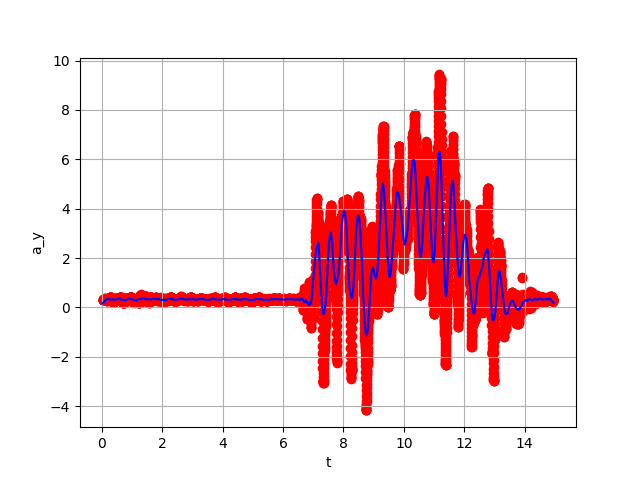
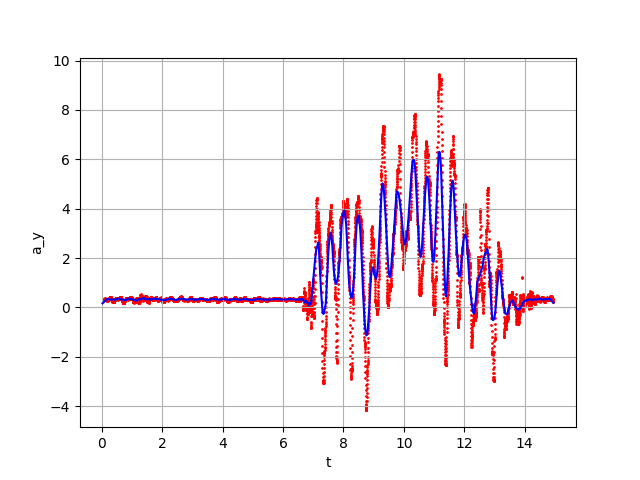
Implemented Brickwall LPF

Changed region(s): [[0.1562, 0.1562, 0.875, 0.875]]

diff --git a/Odometry_Bad_Tries/Bad_Filter_attempts.py b/Odometry_Bad_Tries/Bad_Filter_attempts.py
@@ -1,12 +1,22 @@
 import numpy as np  
 import pandas as pd 
 import matplotlib.pyplot as plt
+#import scipy.interpolate as sp
 
 
 def simple_moving_average(signal, window_size):
     kernel = np.ones(window_size) / window_size
     smoothed_signal = np.convolve(signal, kernel, mode = 'same')
     return smoothed_signal
+
+def Brickwall_LPF(signal, cutoff_freq, fs, num_taps):
+    normalized = cutoff_freq / (0.5*fs)
+    t = np.arange(-num_taps//2, num_taps//2)
+    LPF = np.sinc(2*normalized*t)
+    LPF = LPF * np.hamming(num_taps)
+    LPF = LPF/np.sum(LPF)
+    filtered_signal = np.convolve(signal, LPF, mode = 'same')
+    return filtered_signal
 
 df = pd.read_csv("To_send.csv", header = None, skiprows = 1)
 acc_data = df.to_numpy()
@@ -15,7 +25,7 @@ t, a_x, a_y, a_z, a_mag = acc_data.T
 kernel_size = 100
 smoothed_using_SMA = simple_moving_average(a_y, kernel_size)
 plt.plot(t,smoothed_using_SMA, color = 'blue')
-plt.scatter(t,a_y, color = 'red')
+plt.scatter(t,a_y, color = 'red',s = 1)
 plt.grid(True)
 plt.xlabel('t')
 plt.ylabel('a_y')
@@ -23,12 +33,25 @@ plt.savefig("Filtered_using_SMA")
 plt.clf()
 
 t_downsampled = t[::10]
-downsampled_SMA = smoothed_using_SMA[::10]
+# downsampled_SMA = smoothed_using_SMA[::10]
 downsampled_a_y = a_y[::10]
-plt.plot(t_downsampled,downsampled_SMA, color = 'blue')
-plt.scatter(t_downsampled,downsampled_a_y, color = 'black')
+plt.plot(t,smoothed_using_SMA, color = 'blue')
+plt.scatter(t_downsampled,downsampled_a_y, color = 'black', s = 5)
 plt.grid(True)
 plt.xlabel('t')
 plt.ylabel('a_y')
 plt.savefig("Filtered_using_SMA_downsampled")
+plt.clf()
+
+sampling_rate = 0.5 * len(t)/(t[-1] - t[0])
+cutoff_freq = 5
+taps = 101
+LPF_output = Brickwall_LPF(a_y, cutoff_freq, sampling_rate, taps)
+
+plt.plot(t,LPF_output, color = 'blue')
+plt.scatter(t_downsampled,downsampled_a_y, color = 'black' , s = 1)
+plt.grid(True)
+plt.xlabel('t')
+plt.ylabel('a_y')
+plt.savefig("Filtered_using_brickwall_LPF")
 plt.clf()
